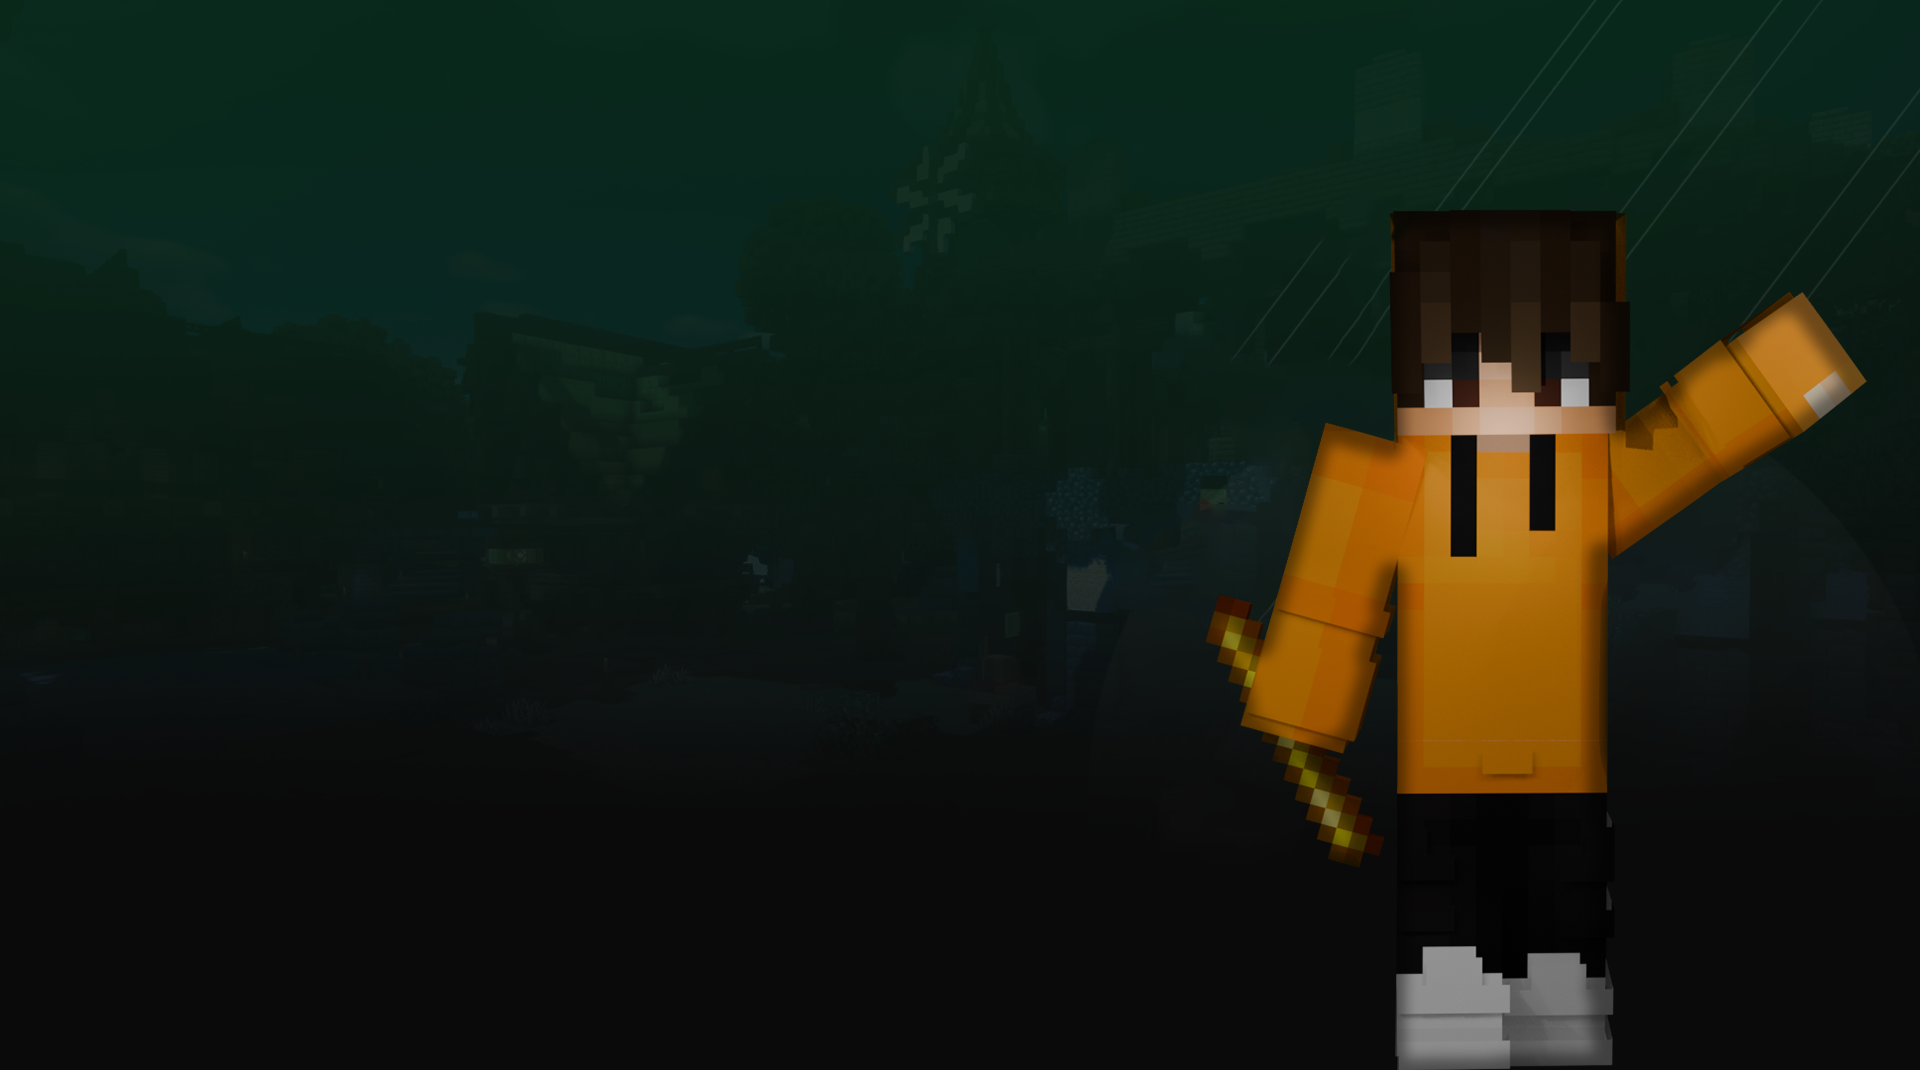
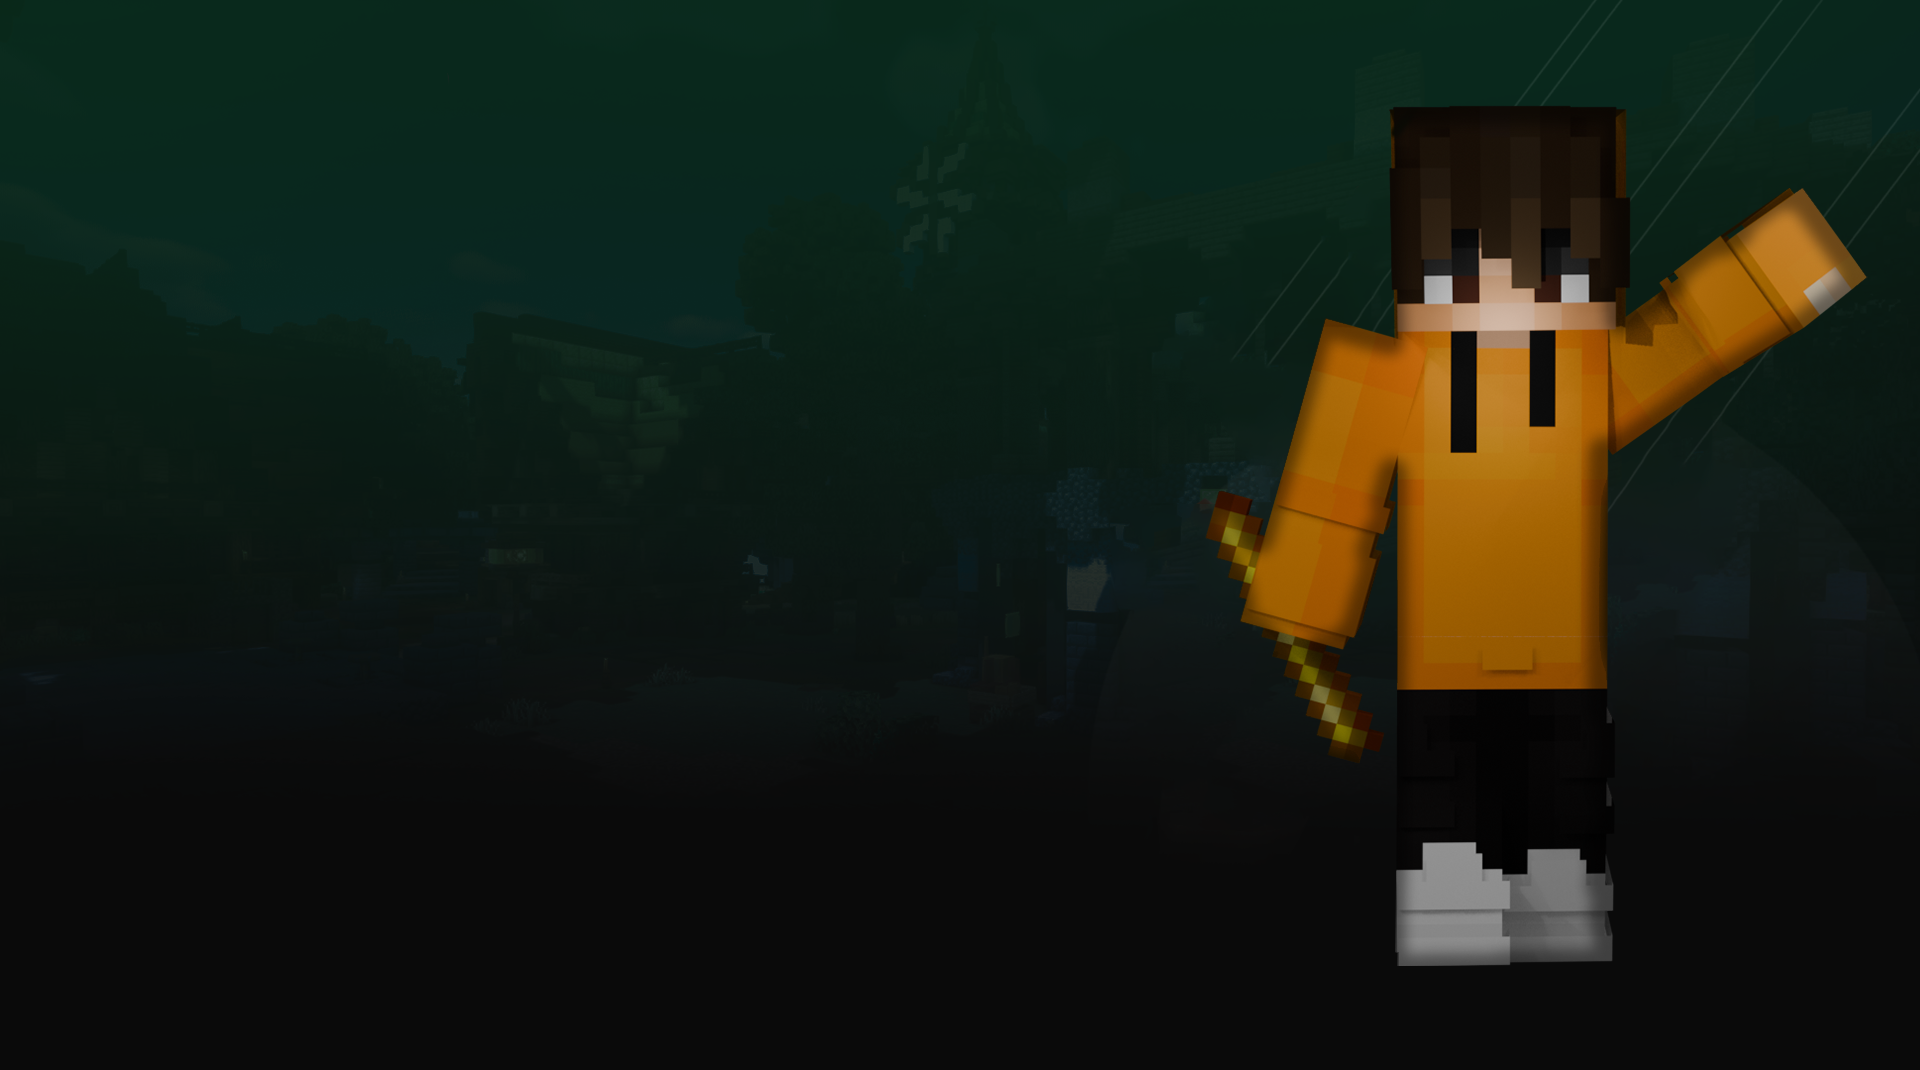
Tło (Naprawa)

Changed region(s): [[0.625, 0.0925, 0.9688, 1.0]]

diff --git a/assets/css/style.css b/assets/css/style.css
@@ -32,7 +32,7 @@ a{
   
 /* backgrounds */
 .bg {
-    background: url(https://i.postimg.cc/DfNLfnjW/dreambg-nowe.png);
+    background: url(https://i.postimg.cc/T2B07VXH/dreambg-nowe.png);
     position: absolute;
     z-index: -1;
     background-size: cover;

diff --git a/regulamin/assets/css/style.css b/regulamin/assets/css/style.css
@@ -32,7 +32,7 @@ a{
   
 /* backgrounds */
 .bg {
-    background: url(https://i.postimg.cc/DfNLfnjW/dreambg-nowe.png);
+    background: url(https://i.postimg.cc/T2B07VXH/dreambg-nowe.png);
     position: absolute;
     z-index: -1;
     background-size: cover;
